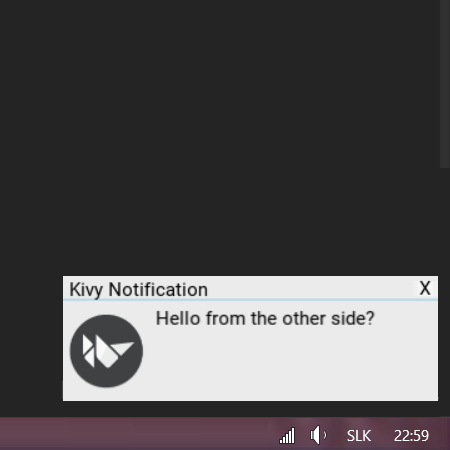
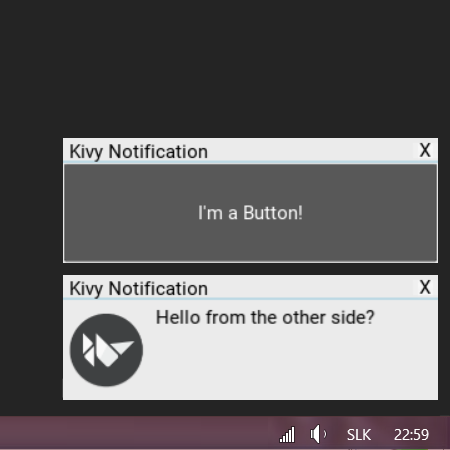
Allow own kv layout, add stacking, callback, better readme description and example

diff --git a/__init__.py b/__init__.py
@@ -1,17 +1,46 @@
 '''
-Notification features:
-- text scrolls
+# Copyright (c) 2013 Peter Badida (KeyWeeUsr)
+
+# Permission is hereby granted, free of charge, to any person obtaining a copy
+# of this software and associated documentation files (the "Software"), to deal
+# in the Software without restriction, including without limitation the rights
+# to use, copy, modify, merge, publish, distribute, sublicense, and/or sell
+# copies of the Software, and to permit persons to whom the Software is
+# furnished to do so, subject to the following conditions:
+
+# The above copyright notice and this permission notice shall be included in
+# all copies or substantial portions of the Software.
+
+# THE SOFTWARE IS PROVIDED "AS IS", WITHOUT WARRANTY OF ANY KIND, EXPRESS OR
+# IMPLIED, INCLUDING BUT NOT LIMITED TO THE WARRANTIES OF MERCHANTABILITY,
+# FITNESS FOR A PARTICULAR PURPOSE AND NONINFRINGEMENT. IN NO EVENT SHALL THE
+# AUTHORS OR COPYRIGHT HOLDERS BE LIABLE FOR ANY CLAIM, DAMAGES OR OTHER
+# LIABILITY, WHETHER IN AN ACTION OF CONTRACT, TORT OR OTHERWISE, ARISING FROM,
+# OUT OF OR IN CONNECTION WITH THE SOFTWARE OR THE USE OR OTHER DEALINGS IN
+# THE SOFTWARE.
+
+.. |notification| replace:: notification
+.. _notification: https://developer.mozilla.org/en-US/docs/Web/API/notification
+
+This widget provides a browser-like |notification|_ with all of the Kivy
+features available. You can use it either in its default state, where is
+only basic title and message with some of the color configuration, or
+you can input your own message layout in kv language. The message string
+is available through ``app.message`` property.
+
+Features:
+- message scrolls
 - available icon option
-- markup turned by default on
 - title will be shortened if too long
-- object
-- methods:
-  - open
-    -returns Thread
+- callback after the notification disappears
+- stacking multiple notifs on top of each other
+- markup turned on in title and message by default
+- kv language input
 
 TODO:
-- linux & osx window hide & grab focus back implementation
+- linux & osx window hide implementation
   (needed for hiding the window another python interpreter creates)
+- grab window focus back - each notification steals focus from the main window
 - position relatively to the taskbar (or at least not on top of it)
 - forbid notification to print Kivy initialisation logs to output
   unless asked for it
@@ -19,7 +48,7 @@ TODO:
 
 import sys
 import threading
-from subprocess import call as scall
+from subprocess import Popen
 from os.path import dirname, abspath, join
 from kivy.app import App
 
@@ -27,38 +56,74 @@ from kivy.app import App
 class Notification(object):
     def open(self, title='Title', message='Message', icon=None,
              width=300, height=100, offset_x=10, offset_y=40,
-             timeout=15, timeout_close=True,
-             line_color=(.2, .64, .81, .5), color=(0, 0, 0, 1),
-             background_color=(.92, .92, .92, 1),
-             parent_title=None):
+             timeout=15, timeout_close=True, color=None,
+             line_color=None, background_color=None, parent_title=None,
+             stack=True, stack_offset_y=10, on_stop=None, kv=None):
 
+        app = App.get_running_app()
+
+        # set default colors
+        if not color:
+            color = (0, 0, 0, 1)
+        if not line_color:
+            line_color = (.2, .64, .81, .5)
+        if not background_color:
+            background_color = (.92, .92, .92, 1)
+
+        # stacking on top of each other
+        if stack and not hasattr(app, '_gardennotification_count'):
+            app._gardennotification_count = 1
+        elif stack and hasattr(app, '_gardennotification_count'):
+            inc = app._gardennotification_count
+            app._gardennotification_count += 1
+            offset_y += (height + stack_offset_y) * inc
+        else:
+            app._gardennotification_count = 0
+
+        # Window name necessary for win32 api
         if not parent_title:
-            app = App.get_running_app()
             parent_title = app.get_application_name()
 
         self.path = dirname(abspath(__file__))
-        t = threading.Thread(target=self._call, args=str({
-            'title': title,
-            'message': message,
-            'icon': icon,
-            'width': width,
-            'height': height,
-            'offset_x': offset_x,
-            'offset_y': offset_y,
-            'timeout': timeout,
-            'timeout_close': timeout_close,
-            'line_color': line_color,
-            'color': color,
-            'background_color': background_color,
-            'parent_title': parent_title
-        }))
 
+        # subprocess callback after the App dies
+        def popen_back(callback, on_stop, args):
+            p = Popen([
+                sys.executable,
+                join(self.path, 'notification.py'),
+                args
+            ])
+            p.wait()
+            callback()
+            if on_stop:
+                on_stop()
+            return
+
+        # open Popen in Thread to wait for exit status
+        # then decrement the stacking variable
+        t = threading.Thread(
+            target=popen_back, args=(
+                self._decrement,
+                on_stop,
+                str({
+                    'title': title,
+                    'message': message,
+                    'icon': icon,
+                    'kv': kv,
+                    'width': width,
+                    'height': height,
+                    'offset_x': offset_x,
+                    'offset_y': offset_y,
+                    'timeout': timeout,
+                    'timeout_close': timeout_close,
+                    'line_color': line_color,
+                    'color': color,
+                    'background_color': background_color,
+                    'parent_title': parent_title,
+                })))
         t.start()
-        return t
 
-    def _call(self, *args):
-        scall([
-            sys.executable,
-            join(self.path, 'notification.py'),
-            ''.join(args)  # need for 2.7.9, converts tuple
-        ])
+    def _decrement(self):
+        app = App.get_running_app()
+        if hasattr(app, '_gardennotification_count'):
+            app._gardennotification_count -= 1

diff --git a/notification.py b/notification.py
@@ -3,6 +3,7 @@ import traceback
 from ast import literal_eval
 from kivy.utils import platform
 from subprocess import check_output
+from os.path import dirname, abspath, join
 
 # waiting for https://github.com/kivy/plyer/pull/201
 if platform == 'win':
@@ -55,6 +56,7 @@ Config.set(
 
 from kivy.app import App
 from kivy.clock import Clock
+from kivy.lang import Builder
 from kivy.logger import Logger
 from kivy.properties import StringProperty, ListProperty
 
@@ -73,6 +75,14 @@ class Notification(App):
         Clock.schedule_once(self._hide_window, 0)
         if KWARGS['timeout_close']:
             Clock.schedule_once(self.stop, KWARGS['timeout'])
+        if KWARGS['kv']:
+            path = dirname(abspath(__file__))
+            kv = Builder.load_file(join(path, 'notification.kv'))
+            kv.ids.container.clear_widgets()
+            kv.ids.container.add_widget(
+                Builder.load_string(KWARGS['kv'])
+            )
+            return kv
 
     def _hide_window(self, *args):
         if platform == 'win':

diff --git a/README.md b/README.md
@@ -3,38 +3,72 @@
 
 <img src="https://raw.githubusercontent.com/kivy-garden/garden.notification/master/screenshot.png"></img>
 
-Only Windows for now, due to missing api for screen resolution.
-Hopefully will be fixed soon.
+This widget provides a browser-like
+<a href="https://developer.mozilla.org/en-US/docs/Web/API/notification">
+notification</a> with all of the basic Kivy features available. You can use it
+either in its default state, where is only basic title and message with some of
+the color configuration, or you can input your own message layout in kv
+language. The message string is available through ``app.message`` property.
+For more such properties, read the code.
+
+## Features:
+
+- message scrolls
+- available icon option
+- title will be shortened if too long
+- callback after the notification disappears
+- stacking multiple notifs on top of each other
+- markup turned on in title and message by default
+- kv language input
+
+## TODO:
+
+- linux & osx window hide implementation
+  (needed for hiding the window another python interpreter creates)
+- grab window focus back - each notification steals focus from the main window
+- position relatively to the taskbar (or at least not on top of it)
+- forbid notification to print Kivy initialisation logs to output
+  unless asked for it
 
 ## Example:
 
 ```
 from kivy.app import App
-from kivy.lang import Builder
+from functools import partial
+from kivy.uix.button import Button
 from kivy.resources import resource_find
-from kivy.uix.boxlayout import BoxLayout
 from kivy.garden.notification import Notification
-Builder.load_string('''
-<Notif>:
-    Button:
-        on_release: root.show_notification()
-''')
 
 
-class Notif(BoxLayout):
+class Notifier(Button):
+    def __init__(self, **kwargs):
+        super(Notifier, self).__init__(**kwargs)
+        self.bind(on_release=self.show_notification)
+
+    def printer(self, *args):
+        print(args)
+
     def show_notification(self, *args):
-        # Notification returns Thread it's run in
-        print(Notification().open(
+        # open default notification
+        Notification().open(
             title='Kivy Notification',
             message='Hello from the other side?',
             timeout=5,
-            icon=resource_find('data/logo/kivy-icon-128.png')
-        ))
+            icon=resource_find('data/logo/kivy-icon-128.png'),
+            on_stop=partial(self.printer, 'Notification closed')
+        )
+
+        # open notification with layout in kv
+        Notification().open(
+            title='Kivy Notification',
+            message="I'm a Button!",
+            kv="Button:\n    text: app.message"
+        )
 
 
 class KivyNotification(App):
     def build(self):
-        return Notif()
+        return Notifier()
 
 
 if __name__ == '__main__':
